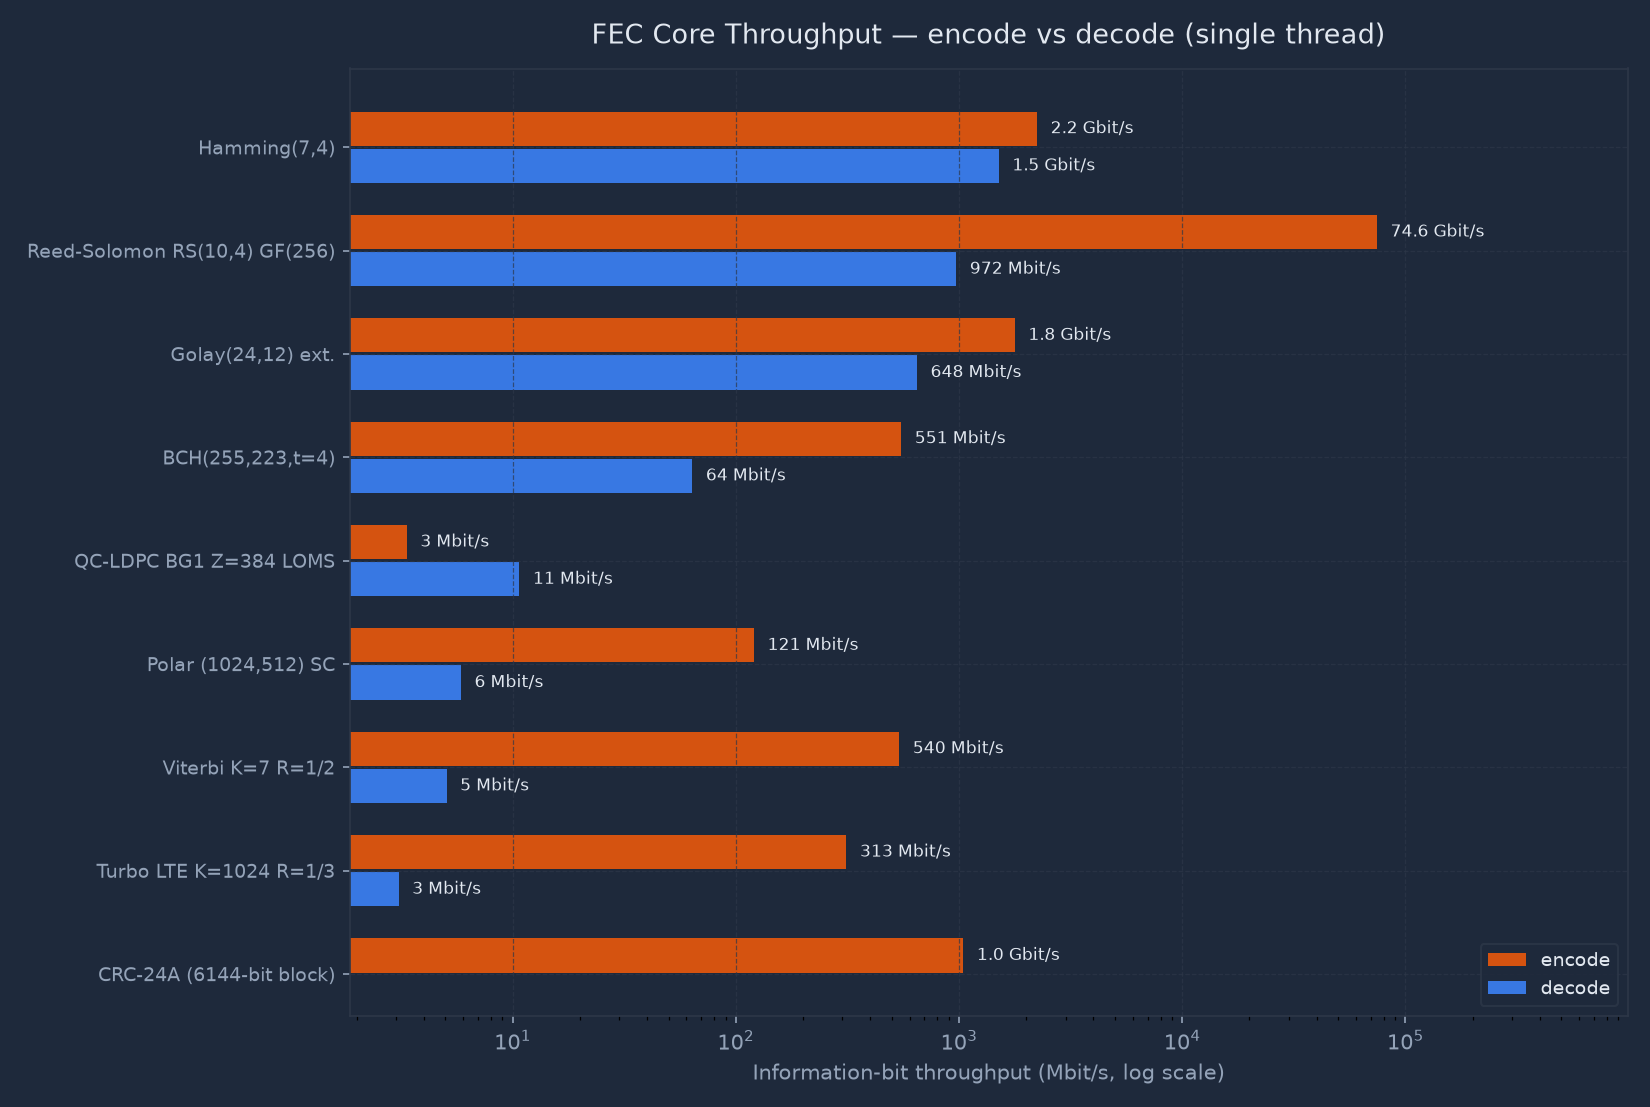
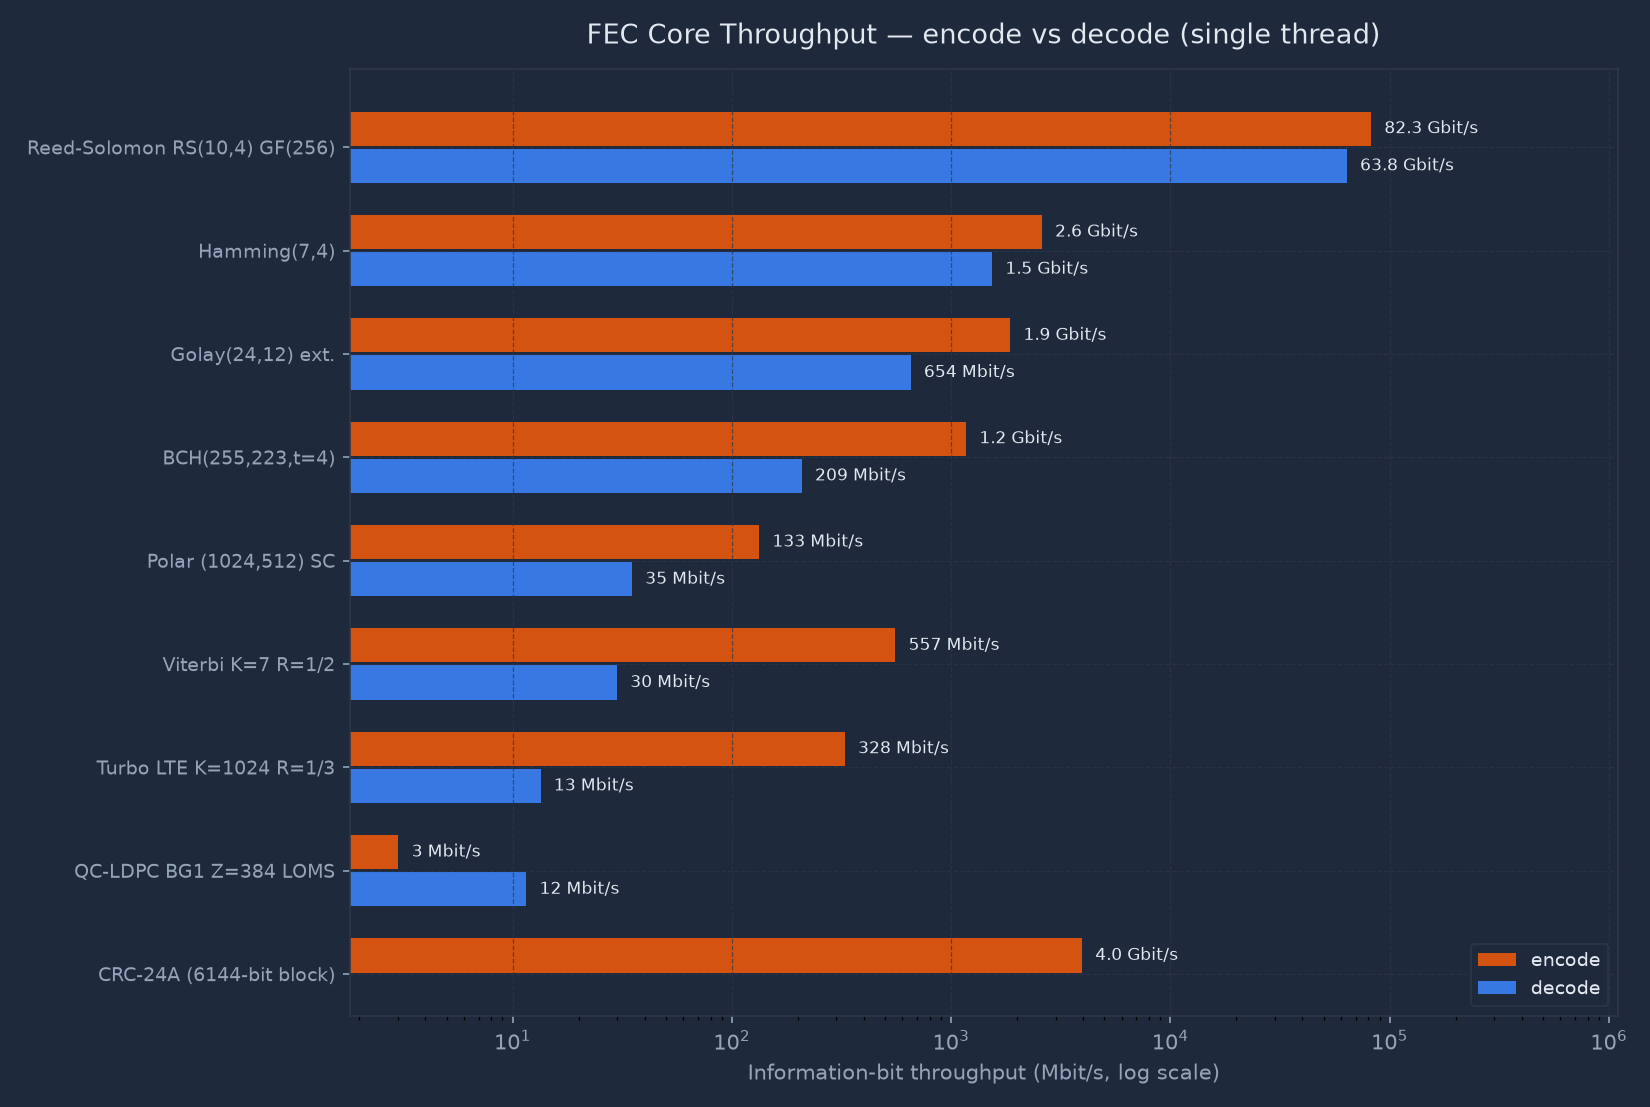
bench: refresh measured results after the vectorization pass
Re-run algo_bench_export on this machine and regenerate all charts.
README cross-algorithm table now shows honest before → after decode
columns (RS 66x, Polar 6.0x, Viterbi 5.9x, Turbo 4.3x, BCH 3.3x,
CRC 3.8x; Hamming/Golay/LDPC unchanged by design), updated test badge
and counts (195 tests: 126 unit + 7 + 4 + 58), and a SIMD-equivalence
note in the test-suite section. CHANGELOG gains the Performance
section documenting each optimization and its verification.

diff --git a/README.md b/README.md
@@ -3,7 +3,7 @@
 [![CI](https://github.com/thomas-glezer/glezer-rsv/actions/workflows/ci.yml/badge.svg)](https://github.com/thomas-glezer/glezer-rsv/actions/workflows/ci.yml)
 [![License: MIT](https://img.shields.io/badge/License-MIT-yellow.svg)](LICENSE)
 [![Rust](https://img.shields.io/badge/rust-1.85%2B-orange.svg)](https://www.rust-lang.org/)
-[![Tests](https://img.shields.io/badge/tests-184%20passing-brightgreen)](tests/)
+[![Tests](https://img.shields.io/badge/tests-195%20passing-brightgreen)](tests/)
 [![Examples](https://img.shields.io/badge/examples-7%20runnable-brightgreen)](examples/)
 [![5G NR](https://img.shields.io/badge/5G%20NR-TS%2038.212-blue)](src/transport_block.rs)
 [![Wi-Fi 7](https://img.shields.io/badge/Wi--Fi%207-802.11be-blue)](src/wifi.rs)
@@ -21,12 +21,12 @@
 |---|---|
 | **Standards** | 3GPP TS 38.212 (5G NR), TS 36.212 (LTE Turbo), 802.11ax/be (Wi-Fi 6/7), IMT-2030 (6G research) |
 | **Algorithms** | 9 cores: Hamming, Golay, BCH, Reed-Solomon, Viterbi, Turbo, QC-LDPC LOMS, Polar SC/CA-SCL, CRC family |
-| **SIMD** | AVX2 (x86-64, runtime-detected), NEON (AArch64, compile-gated) |
+| **SIMD** | AVX2 kernels in LDPC, RS, Viterbi, and Turbo (x86-64, runtime-detected, scalar-equivalence-tested); NEON (AArch64) |
 | **Concurrency** | Lock-free SPSC ring buffer, multi-worker LDPC pipeline, per-core affinity |
-| **Tests** | 184 total — 115 unit · 7 integration · 4 media reconstruction · 58 doctests |
+| **Tests** | 195 total — 126 unit · 7 integration · 4 media reconstruction · 58 doctests |
 | **Examples** | 7 runnable, heavily-commented teaching examples (`cargo run --example …`) |
 | **Allocations** | Zero heap allocation inside the decode hot-paths |
-| **Benchmarks** | RS: ~75 Gbit/s info (AVX2 VPSHUFB), LDPC: ~119 Melem/s · all numbers from running code |
+| **Benchmarks** | RS: ~82/64 Gbit/s encode/decode (AVX2 VPSHUFB), LDPC: ~119 Melem/s · all numbers from running code |
 
 ### The algorithm portfolio — one library, every generation
 
@@ -353,11 +353,11 @@ loop {
 
 ## 4. Test Suite
 
-### 4.1 Component coverage (184 tests total)
+### 4.1 Component coverage (195 tests total)
 
 | Category | Count | Location |
 |---|---|---|
-| Unit tests | 115 | embedded in `src/*.rs` |
+| Unit tests | 126 | embedded in `src/*.rs` |
 | LDPC integration (encode→decode round-trips) | 7 | `tests/ldpc_integration.rs` |
 | End-to-end media reconstruction | 4 | `tests/media_reconstruction.rs` |
 | Doctests | 58 | `///` examples in all public API |
@@ -374,6 +374,10 @@ Highlights of what the tests actually *prove* (not just exercise):
   reference table for all $t \le 10$; $g(x)$ provably divides $x^{255}+1$.
 - **Turbo**: every QPP interleaver is asserted to be a valid permutation;
   both constituent encoders provably terminate in state zero.
+- **SIMD equivalence**: every AVX2 path (Viterbi ACS, Turbo BCJR, RS decode)
+  and every table-driven rewrite (CRC, BCH) is tested against its retained
+  scalar reference implementation on hundreds of seeded random inputs —
+  bit-for-bit where the arithmetic permits, which it does in all cases here.
 
 Run all:
 ```bash
@@ -408,21 +412,21 @@ All numbers are produced by running the code on this machine (`bench/run_all.sh`
 
 ### 5.0 Cross-algorithm comparison — all nine cores, one metric
 
-Uniform metric: **information-bit throughput** (payload bits per second — parity overhead not counted), single thread, x86-64 with AVX2.
+Uniform metric: **information-bit throughput** (payload bits per second — parity overhead not counted), single thread, x86-64 with AVX2. The *before* column is the original scalar implementation; *after* is the current SIMD/table-optimized code (every decoder was vectorized or table-accelerated in a dedicated optimization pass, each proven output-equivalent to its scalar reference by seeded randomized tests).
 
-| Algorithm | Configuration | Encode | Decode | Why the gap |
+| Algorithm | Configuration | Encode | Decode (before → after) | How the decode was accelerated |
 |---|---|---|---|---|
-| Reed-Solomon | RS(10,4), 4 KiB shards, AVX2 | **74.6 Gbit/s** | 972 Mbit/s | Encode is pure VPSHUFB streaming; decode inverts a matrix then re-multiplies |
-| Hamming | (7,4), table | 2.24 Gbit/s | 1.51 Gbit/s | Both are table lookups |
-| Golay | (24,12), syndrome table | 1.78 Gbit/s | 648 Mbit/s | O(1) table decode with bit packing |
-| CRC-24A | 6144-bit block | 1.05 Gbit/s | — (detection) | Bit-serial LFSR |
-| BCH | (255,223,t=4) | 551 Mbit/s | 64 Mbit/s | Decode = syndromes + Berlekamp–Massey + Chien search |
-| Viterbi | K=7, R=1/2, soft | 540 Mbit/s | 5.1 Mbit/s | Decode walks a 64-state trellis per bit |
-| Turbo | LTE K=1024, 8 iter | 313 Mbit/s | 3.1 Mbit/s | Decode = 16 BCJR passes over the trellis |
-| Polar | (1024,512), SC | 121 Mbit/s | 5.9 Mbit/s | Decode = sequential N log N tree walk |
-| QC-LDPC | BG1 Z=384, 10 iter | 3.4 Mbit/s | 10.7 Mbit/s | Encode = dense generator multiply; decode is layered + SIMD |
+| Reed-Solomon | RS(10,4), 4 KiB shards | **82 Gbit/s** | 972 Mbit/s → **63.8 Gbit/s** (66×) | Removed 8 192 hidden per-call heap allocations; routed reconstruction through the same AVX2 VPSHUFB kernel as encode |
+| CRC-24A | 6144-bit block | 1.05 → **3.95 Gbit/s** (3.8×) | — (detection) | Bit-serial LFSR → 256-entry byte table (nibble table for CRC-6) |
+| Golay | (24,12), syndrome table | 1.86 Gbit/s | 654 Mbit/s | Already O(1) table decode by design |
+| Hamming | (7,4), table | 2.59 Gbit/s | 1.54 Gbit/s | Already table lookups |
+| BCH | (255,223,t=4) | 551 Mbit/s → **1.17 Gbit/s** (2.1×) | 64 → **209 Mbit/s** (3.3×) | Weight-proportional syndrome tables + per-β Chien multiply tables + byte-wise LFSR (~70 KiB tables) |
+| Viterbi | K=7, R=1/2, soft | 557 Mbit/s | 5.1 → **29.9 Mbit/s** (5.9×) | AVX2 ACS: all 64 trellis states per step in 8-wide lanes, shuffle-deinterleaved butterflies |
+| Polar | (1024,512), SC | 133 Mbit/s | 5.9 → **35.0 Mbit/s** (6.0×) | Killed ~3 000 recursion allocations; partial sums O(N log²N) → O(N log N) via GF(2) linearity; branch-free f/g kernels |
+| Turbo | LTE K=1024, 8 iter | 328 Mbit/s | 3.1 → **13.4 Mbit/s** (4.3×) | AVX2 BCJR: 8 states per register, bit-identical to scalar (sign-exact ±1 arithmetic, no FMA) |
+| QC-LDPC | BG1 Z=384, 10 iter | 3.0 Mbit/s | 11.6 Mbit/s | Already AVX2/NEON from day one (§5.2) |
 
-The pattern is the story of modern FEC: **the stronger the code, the more the decoder costs.** Table-driven classics decode at line rate but correct little; the capacity-approaching iterative codes (Turbo, LDPC, Polar) pay orders of magnitude more per bit — which is exactly why production basebands parallelise them across cores and SIMD lanes (see §5.2 and the pipeline in §3).
+The pattern is the story of modern FEC: **the stronger the code, the more the decoder costs.** Table-driven classics decode at line rate but correct little; the capacity-approaching iterative codes (Turbo, LDPC, Polar) pay orders of magnitude more per bit — which is exactly why production basebands parallelise them across cores and SIMD lanes (see §5.2 and the pipeline in §3). Every optimization above kept the scalar implementation as a tested reference: SIMD paths are runtime-detected and proven equivalent, never assumed.
 
 Reproduce: `cargo run --release --bin algo_bench_export` → `bench/results/algos.json` → `python bench/dashboard/gen_charts.py`.
 

diff --git a/CHANGELOG.md b/CHANGELOG.md
@@ -7,6 +7,25 @@ and this project adheres to [Semantic Versioning](https://semver.org/spec/v2.0.0
 
 ## [Unreleased]
 
+### Performance
+Decoder vectorization pass across all cores (single-thread, x86-64 AVX2;
+every optimized path is runtime-detected, keeps its scalar implementation as
+a tested reference, and is proven output-equivalent on seeded random inputs):
+- **Reed-Solomon erasure decode: 972 Mbit/s → ~64 Gbit/s (66×)** — removed
+  8 192 hidden per-call heap allocations and routed reconstruction through
+  the same AVX2 VPSHUFB kernel as encode.
+- **Polar SC decode: 5.9 → 35 Mbit/s (6×), SCL ~2.6×** — eliminated ~3 000
+  recursion allocations per call; partial-sum re-encoding reduced from
+  O(N log²N) to O(N log N) via GF(2) linearity; branch-free f/g kernels.
+- **Viterbi soft decode: 5.1 → 30 Mbit/s (5.9×)** — AVX2 ACS processing all
+  64 trellis states per step with shuffle-deinterleaved butterfly gathers.
+- **Turbo decode: 3.1 → 13.4 Mbit/s (4.3×)** — AVX2 BCJR with all 8 states
+  per register, bit-identical to scalar by design (sign-exact ±1 arithmetic).
+- **BCH: encode 2.1×, decode 3.3×** — weight-proportional syndrome tables,
+  per-β Chien multiply tables, byte-wise LFSR (≈70 KiB of tables per code).
+- **CRC family: 3.8×** — bit-serial LFSR replaced by a 256-entry byte table
+  (16-entry nibble table for CRC-6), equivalent by construction.
+
 ### Added
 - **LTE Turbo codes** (`src/turbo.rs`): rate-1/3 PCCC per TS 36.212 — two 8-state
   RSC constituent encoders, QPP interleaver (8 supported K, pairs from Table
@@ -40,6 +59,11 @@ and this project adheres to [Semantic Versioning](https://semver.org/spec/v2.0.0
   `[lints.clippy]` policy.
 
 ### Fixed
+- Resolved all 35 rustdoc warnings (unqualified intra-doc links now
+  type-qualified, links to private items demoted to plain code spans, and
+  bracketed math indices rewritten as LaTeX subscripts so they no longer
+  parse as broken links); `cargo doc` is now warning-free alongside rustc
+  and clippy.
 - **Polar SC/SCL decoder correctness**: the successive-cancellation g-function
   consumed raw decoded bits instead of the re-encoded partial sums, silently
   producing wrong codewords for any message of Hamming weight ≥ 2 (the old
